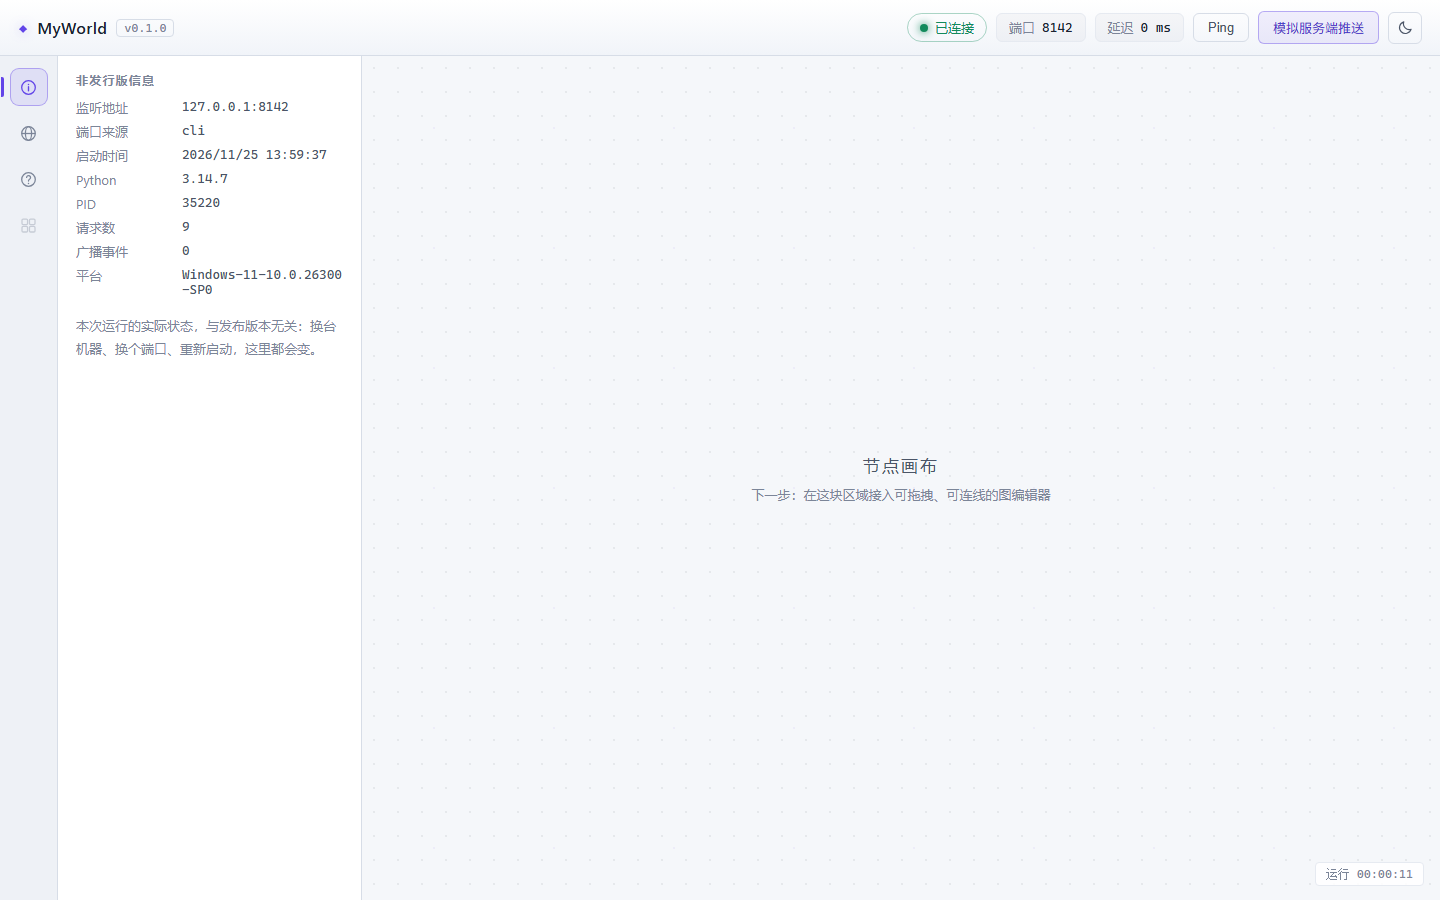
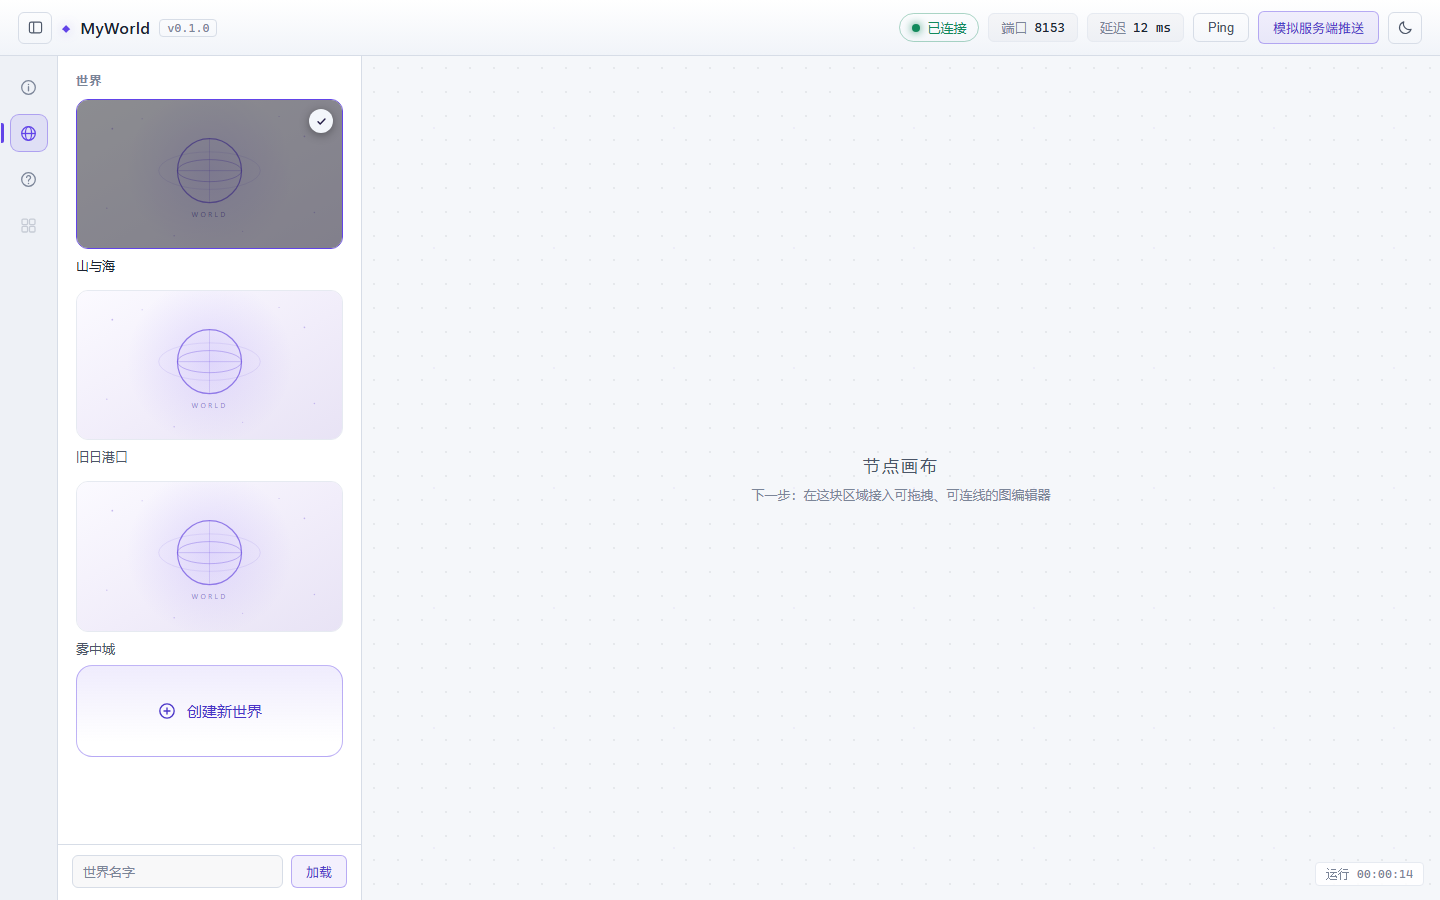
feat: 左栏底部加载栏 + 默认缩略图支持浅色版
- 左栏底部固定一条「世界名字 + 加载」输入条（panel 改为 flex 纵向，
  内容区独立滚动、底栏不动），输入回车或点加载即可切到世界面板并选中，
  支持粘贴 data/名字，找不到就地提示；输入时自动清错误
- 默认缩略图补浅色版 world-default-light.svg；接口加 ?theme=dark|light，
  前端按当前主题取图，切主题时自动刷新缩略图
- 修复加载按钮被挤成竖排（nowrap + 不参与伸缩）
- tests: 冒烟增至 22 项（深浅默认图不同、含色值断言）
- 文档与深浅两版截图更新

diff --git a/web/js/app.js b/web/js/app.js
@@ -29,6 +29,9 @@
     worldError: $("worldError"),
     worldList: $("worldList"),
     worldEmpty: $("worldEmpty"),
+    loadWorld: $("loadWorld"),
+    btnLoadWorld: $("btnLoadWorld"),
+    loadError: $("loadError"),
   };
 
   const state = {
@@ -67,6 +70,8 @@
     const tip = theme === "light" ? "切换到深色" : "切换到浅色";
     el.btnTheme.title = tip;
     el.btnTheme.setAttribute("aria-label", tip);
+    // 默认缩略图分深浅两版，切主题时重新取
+    refreshThumbnailThemes();
   }
 
   function initTheme() {
@@ -101,26 +106,23 @@
 
   // ---------------- 左侧功能区 ----------------
 
+  function activatePane(name) {
+    document.querySelectorAll(".rail-item").forEach((item) => {
+      const active = item.dataset.pane === name;
+      item.classList.toggle("is-active", active);
+      item.setAttribute("aria-pressed", String(active));
+    });
+    document.querySelectorAll(".pane").forEach((pane) => {
+      pane.hidden = pane.dataset.pane !== name;
+    });
+    // 世界列表可能被别处改过（比如删了目录），切过去时 reload 一次
+    if (name === "world") loadWorlds();
+  }
+
   function initRail() {
-    const items = Array.from(document.querySelectorAll(".rail-item"));
-    const panes = Array.from(document.querySelectorAll(".pane"));
-
-    function activate(name) {
-      items.forEach((item) => {
-        const active = item.dataset.pane === name;
-        item.classList.toggle("is-active", active);
-        item.setAttribute("aria-pressed", String(active));
-      });
-      panes.forEach((pane) => {
-        pane.hidden = pane.dataset.pane !== name;
-      });
-      // 世界列表可能被别处改过（比如删了目录），切过去时reload一次
-      if (name === "world") loadWorlds();
-    }
-
-    items.forEach((item) => {
+    document.querySelectorAll(".rail-item").forEach((item) => {
       if (item.disabled) return;
-      item.addEventListener("click", () => activate(item.dataset.pane));
+      on(item, "click", () => activatePane(item.dataset.pane));
     });
   }
 
@@ -163,8 +165,10 @@
       const thumb = document.createElement("div");
       thumb.className = "world-thumb";
       const img = document.createElement("img");
-      // 后端在没有真实缩略图时返回默认图（web/img/world-default.svg）
-      img.src = `/api/worlds/${encodeURIComponent(item.name)}/thumbnail`;
+      // 没有真实缩略图时，后端按 ?theme= 返回对应的默认图（深/浅两版）
+      const thumbBase = `/api/worlds/${encodeURIComponent(item.name)}/thumbnail`;
+      img.dataset.thumbBase = thumbBase;
+      img.src = `${thumbBase}?theme=${currentTheme()}`;
       img.alt = item.name;
       // 不用 loading="lazy"：动态插入的元素在部分浏览器里不会触发懒加载，
       // 表现就是缩略图一直空着。本地小图直接加载更快也更可靠。
@@ -197,6 +201,72 @@
       el2.classList.toggle("is-selected", el2 === node);
     });
     debug("选择世界", item);
+  }
+
+  /* 主题切换后，让默认缩略图跟着换版本 */
+  function refreshThumbnailThemes() {
+    const theme = currentTheme();
+    document.querySelectorAll(".world-card img").forEach((img) => {
+      const base = img.dataset.thumbBase;
+      if (base) img.src = `${base}?theme=${theme}`;
+    });
+  }
+
+  // ---------------- 底部加载栏 ----------------
+
+  function showLoadError(message) {
+    if (!el.loadError) return;
+    el.loadError.textContent = message;
+    el.loadError.hidden = false;
+  }
+
+  function clearLoadError() {
+    if (!el.loadError) return;
+    el.loadError.textContent = "";
+    el.loadError.hidden = true;
+  }
+
+  async function loadWorldByName() {
+    if (!el.loadWorld) return;
+
+    const raw = el.loadWorld.value.trim();
+    if (!raw) {
+      showLoadError("先填一个世界名字");
+      el.loadWorld.focus();
+      return;
+    }
+
+    // 允许直接粘贴 data/名字 或 名字\
+    const name = raw
+      .replace(/^data[\\/]/i, "")
+      .replace(/[\\/]+$/, "")
+      .trim();
+
+    try {
+      const data = await fetchJSON("/api/worlds");
+      const items = Array.isArray(data.items) ? data.items : [];
+      const found = items.find((item) => item.name.toLowerCase() === name.toLowerCase());
+
+      if (!found) {
+        showLoadError(`没有这个世界：「${name}」`);
+        return;
+      }
+
+      clearLoadError();
+      activatePane("world");
+      selectedWorld = found.name;
+      renderWorlds(items);
+
+      const node = el.worldList.querySelector(`.world-card[data-name="${CSS.escape(found.name)}"]`);
+      if (node) {
+        selectWorld(found, node);
+        node.scrollIntoView({ block: "nearest" });
+      }
+      el.loadWorld.value = "";
+      debug("加载世界", found);
+    } catch (err) {
+      showLoadError("加载失败：" + err.message);
+    }
   }
 
   function openWorldForm() {
@@ -535,6 +605,11 @@
   initSidebar();
   on(el.btnCreateWorld, "click", openWorldForm);
   on(el.btnCancelWorld, "click", closeWorldForm);
+  on(el.btnLoadWorld, "click", loadWorldByName);
+  on(el.loadWorld, "keydown", (event) => {
+    if (event.key === "Enter") loadWorldByName();
+  });
+  on(el.loadWorld, "input", clearLoadError);
   on(el.worldForm, "submit", (event) => {
     event.preventDefault();
     createWorld();

diff --git a/web/css/style.css b/web/css/style.css
@@ -381,13 +381,47 @@ body {
 }
 
 .panel {
+  display: flex;
+  flex-direction: column;
   flex: 0 0 auto;
   width: var(--panel-w);
-  padding: 16px 18px;
-  overflow-y: auto;
+  overflow: hidden;
   background: var(--panel);
   border-right: 1px solid var(--border);
   transition: background-color 0.18s ease, border-color 0.18s ease;
+}
+
+/* 面板内容区独立滚动，底部加载栏固定不动 */
+.pane-scroll {
+  flex: 1 1 auto;
+  min-height: 0;
+  padding: 16px 18px;
+  overflow-y: auto;
+}
+
+.panel-footer {
+  flex: 0 0 auto;
+  display: flex;
+  flex-direction: column;
+  gap: 6px;
+  padding: 10px 14px 12px;
+  border-top: 1px solid var(--border);
+  background: var(--panel);
+}
+
+.panel-footer-row {
+  display: flex;
+  gap: 8px;
+}
+
+.panel-footer-row .input {
+  flex: 1 1 auto;
+  min-width: 0;
+}
+
+.panel-footer-row .btn {
+  flex: 0 0 auto;
+  white-space: nowrap;
 }
 
 .panel h2 {

diff --git a/web/index.html b/web/index.html
@@ -99,6 +99,7 @@
 
     <!-- 功能区对应的内容面板 -->
     <aside class="panel">
+      <div class="pane-scroll">
       <section class="pane" data-pane="info">
         <h2>非发行版信息</h2>
         <dl class="meta" id="meta"></dl>
@@ -150,6 +151,17 @@
           网页只负责界面。
         </p>
       </section>
+      </div>
+
+      <!-- 固定在左栏底部的加载入口 -->
+      <div class="panel-footer">
+        <p class="form-error" id="loadError" hidden></p>
+        <div class="panel-footer-row">
+          <input class="input" id="loadWorld" type="text" placeholder="世界名字" autocomplete="off"
+                 spellcheck="false" aria-label="要加载的世界名字" />
+          <button class="btn" id="btnLoadWorld" type="button">加载</button>
+        </div>
+      </div>
     </aside>
       </div>
     </div>

diff --git a/tests/smoke_test.py b/tests/smoke_test.py
@@ -138,16 +138,28 @@ async def run_checks(port: int, data_dir: str) -> list[tuple[str, bool, str]]:
             checks.append(("POST /api/worlds 创建世界", ok, f"{response.status} {created.get('path')}"))
 
         thumb_url = f"{base}/api/worlds/{quote('测试世界')}/thumbnail"
-        async with session.get(thumb_url) as response:
-            body = await response.read()
+        async with session.get(thumb_url + "?theme=dark") as response:
+            dark_body = await response.read()
             content_type = response.headers.get("Content-Type", "")
             checks.append(
                 (
-                    "无缩略图时回落到默认图片",
-                    response.status == 200 and content_type.startswith("image/svg+xml") and b"<svg" in body,
-                    f"{response.status} {content_type} {len(body)}B",
+                    "无缩略图时回落到默认图片（深色）",
+                    response.status == 200 and content_type.startswith("image/svg+xml") and b"#241d47" in dark_body,
+                    f"{response.status} {content_type} {len(dark_body)}B",
                 )
             )
+
+        async with session.get(thumb_url + "?theme=light") as response:
+            light_body = await response.read()
+            checks.append(
+                (
+                    "默认图片有浅色版",
+                    response.status == 200 and b"#fbfaff" in light_body,
+                    f"{response.status} {len(light_body)}B",
+                )
+            )
+
+        checks.append(("深浅默认图内容不同", dark_body != light_body, f"{len(dark_body)} vs {len(light_body)}B"))
 
         async with session.get(f"{base}/api/worlds/{quote('不存在的世界')}/thumbnail") as response:
             checks.append(("未知世界的缩略图返回 404", response.status == 404, str(response.status)))

diff --git a/myworld/server.py b/myworld/server.py
@@ -27,7 +27,10 @@ from .config import Settings
 from .events import EventBus
 
 WEB_DIR = Path(__file__).resolve().parent.parent / "web"
-DEFAULT_WORLD_THUMB = WEB_DIR / "img" / "world-default.svg"
+DEFAULT_WORLD_THUMBS = {
+    "dark": WEB_DIR / "img" / "world-default.svg",
+    "light": WEB_DIR / "img" / "world-default-light.svg",
+}
 logger = logging.getLogger("myworld")
 
 
@@ -165,7 +168,7 @@ def create_app(settings: Settings) -> FastAPI:
         return created
 
     @app.get("/api/worlds/{name}/thumbnail", summary="世界缩略图（没有则用默认图）")
-    async def api_world_thumbnail(name: str) -> FileResponse:
+    async def api_world_thumbnail(name: str, theme: str = "dark") -> FileResponse:
         root = worlds.resolve_root(runtime.settings.data_dir)
         try:
             thumb = worlds.find_thumbnail(root, name)
@@ -174,9 +177,11 @@ def create_app(settings: Settings) -> FastAPI:
 
         headers = {"Cache-Control": "no-cache"}
         if thumb is None:
-            if not DEFAULT_WORLD_THUMB.is_file():
+            # 默认图分深浅两版，跟着页面主题走
+            default = DEFAULT_WORLD_THUMBS.get(theme, DEFAULT_WORLD_THUMBS["dark"])
+            if not default.is_file():
                 raise HTTPException(status_code=500, detail="默认世界图片缺失")
-            return FileResponse(DEFAULT_WORLD_THUMB, media_type="image/svg+xml", headers=headers)
+            return FileResponse(default, media_type="image/svg+xml", headers=headers)
         return FileResponse(thumb, headers=headers)
 
     @app.websocket("/ws")

diff --git a/README.md b/README.md
@@ -104,9 +104,11 @@ data/
     world.json
 ```
 
-在左侧功能区点「世界」：每个世界是一张 **16:9 的图片 + 下方名字**，按名字排序；「创建新世界」固定放在所有世界的下面，点它展开输入框，回车或「创建」即可。新建的世界立刻出现在列表里，点一下选中。
+在左侧功能区点「世界」：每个世界是一张 **16:9 的图片 + 下方名字**，按名字排序；「创建新世界」固定放在所有世界的下面，点它展开输入框，回车或「创建」即可。新建的世界立刻出现在列表里，点一下选中（暗色蒙版 + 浅色对号）。
 
-还没有真实图片时，缩略图回落到 `web/img/world-default.svg` 这张默认图。想换图就往世界目录里放一张 `thumbnail.png`（也认 `.jpg / .jpeg / .webp / .gif`），刷新即可，不需要重启服务。
+左栏底部固定着一条 **「世界名字 + 加载」** 的输入条：填名字回车或点「加载」，会自动切到世界面板并选中它（也接受直接粘贴 `data/名字`）；找不到就就地提示，不用翻列表。
+
+还没有真实图片时，缩略图回落到默认图，**深浅两套**各一张（`web/img/world-default.svg` / `world-default-light.svg`），切换主题时会自动换。想换图就往世界目录里放一张 `thumbnail.png`（也认 `.jpg / .jpeg / .webp / .gif`），刷新即可，不需要重启服务。
 
 图片比例由 `--world-ratio` 变量控制，想用 4:3 就把它改成 `4 / 3`。
 
@@ -131,7 +133,7 @@ data/
 | GET | `/api/events` | 事件总线订阅者数量 |
 | GET | `/api/worlds` | 列出 `data/` 下所有世界 |
 | POST | `/api/worlds` | 创建世界，体 `{"name": "名字"}`；重名 409、非法名 400 |
-| GET | `/api/worlds/{名字}/thumbnail` | 世界缩略图；没有真实图片时返回默认 SVG，世界不存在 404 |
+| GET | `/api/worlds/{名字}/thumbnail` | 世界缩略图；没有真实图片时按 `?theme=dark\|light` 返回对应默认图，世界不存在 404 |
 | POST | `/api/demo/tick` | 向所有已连接页面广播一条事件（验证推送链路） |
 | GET | `/api/docs` | 自动生成的 Swagger 文档 |
 | WS | `/ws` | 心跳与事件推送通道 |
@@ -171,7 +173,8 @@ web/
   index.html           界面结构：顶栏 / 左侧功能区 / 内容面板 / 画布
   css/style.css        明暗两套主题 + 排版刻度（全部是 CSS 变量）
   js/app.js            状态渲染、WS 连接/心跳/重连、世界图库与创建
-  img/world-default.svg 世界缩略图默认图
+  img/world-default.svg 世界缩略图默认图（深色）
+  img/world-default-light.svg 世界缩略图默认图（浅色）
 data/
   .gitkeep             世界目录（内容不入库）
 tests/
